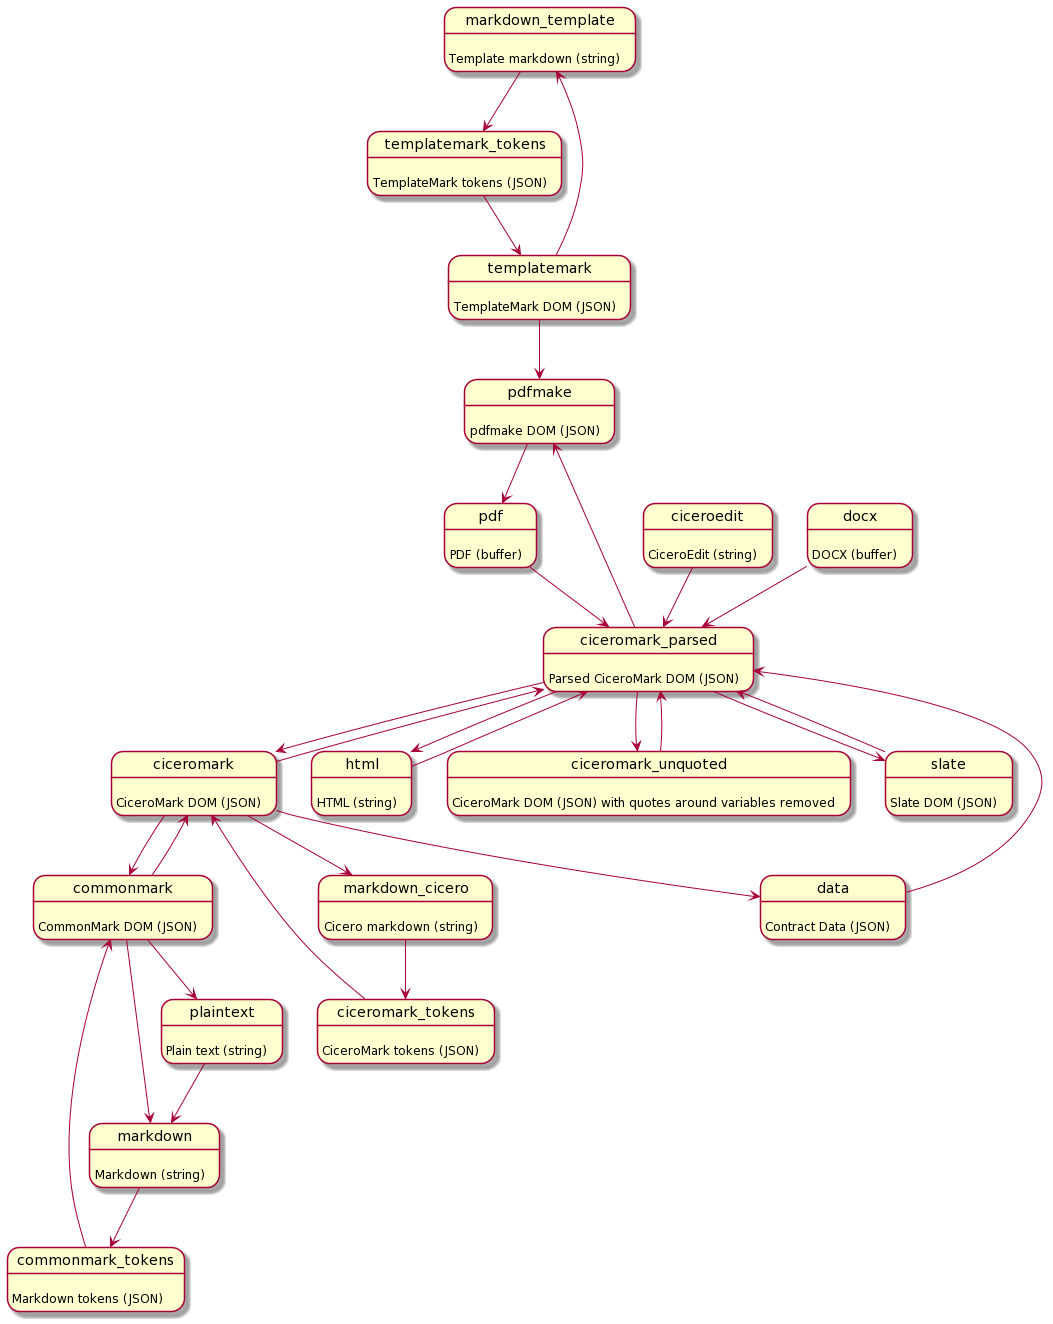
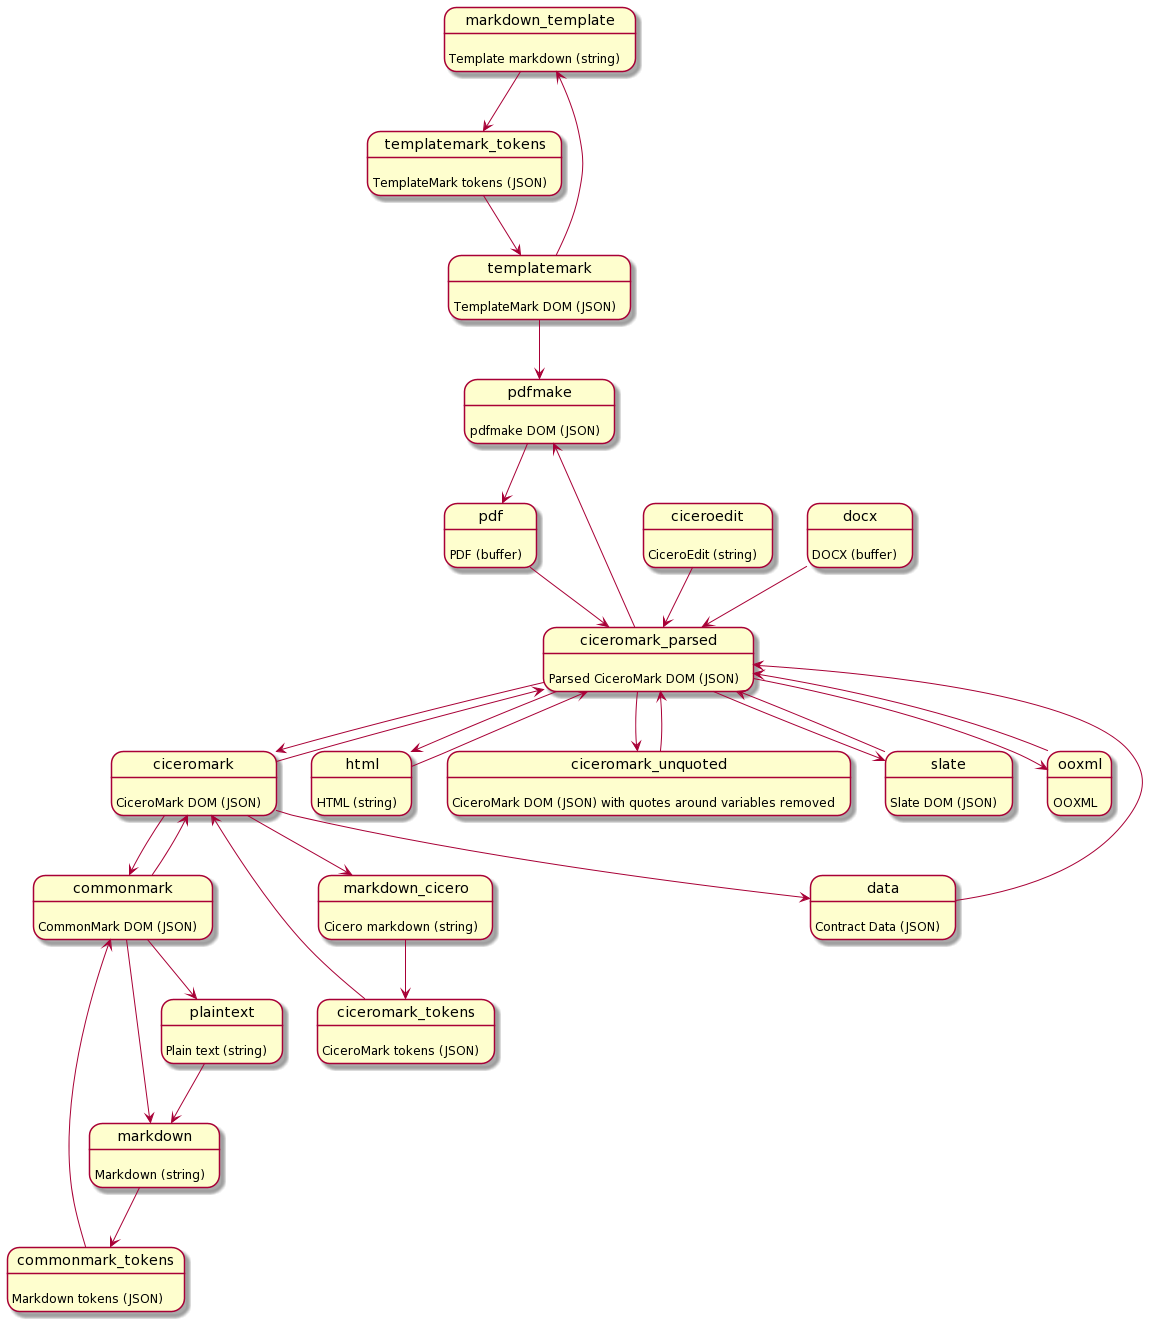
feat(markdown-transform): add transformation CiceroMark<->OOXML

diff --git a/packages/markdown-transform/lib/transform.js b/packages/markdown-transform/lib/transform.js
@@ -26,6 +26,9 @@ const SlateTransformer = require('@accordproject/markdown-slate').SlateTransform
 const HtmlTransformer = require('@accordproject/markdown-html').HtmlTransformer;
 const PdfTransformer = require('@accordproject/markdown-pdf').PdfTransformer;
 const DocxTransformer = require('@accordproject/markdown-docx').DocxTransformer;
+const OoxmlTransformer = require('@accordproject/markdown-docx').OoxmlTransformer;
+const CiceroMarkToOOXMLTransfomer = require('@accordproject/markdown-docx').CiceroMarkToOOXMLTransfomer;
+
 
 /**
  * The graph of transformation supported
@@ -165,6 +168,10 @@ const transformationGraph = {
         pdfmake: (input, parameters, options) => {
             return PdfTransformer.ciceroMarkToPdfMake(input, options);
         },
+        ooxml: (input) => {
+            const t = new CiceroMarkToOOXMLTransfomer();
+            return t.toOOXML(input);
+        }
     },
     data: {
         docs: 'Contract Data (JSON)',
@@ -220,6 +227,13 @@ const transformationGraph = {
             const t = new DocxTransformer();
             return t.toCiceroMark(input, options);
         },
+    },
+    ooxml: {
+        docs: 'OOXML',
+        fileFormat: 'binary',
+        ciceromark_parsed: async(input) => {
+            return OoxmlTransformer.toCiceroMark(input);
+        }
     },
     html: {
         docs: 'HTML (string)',
